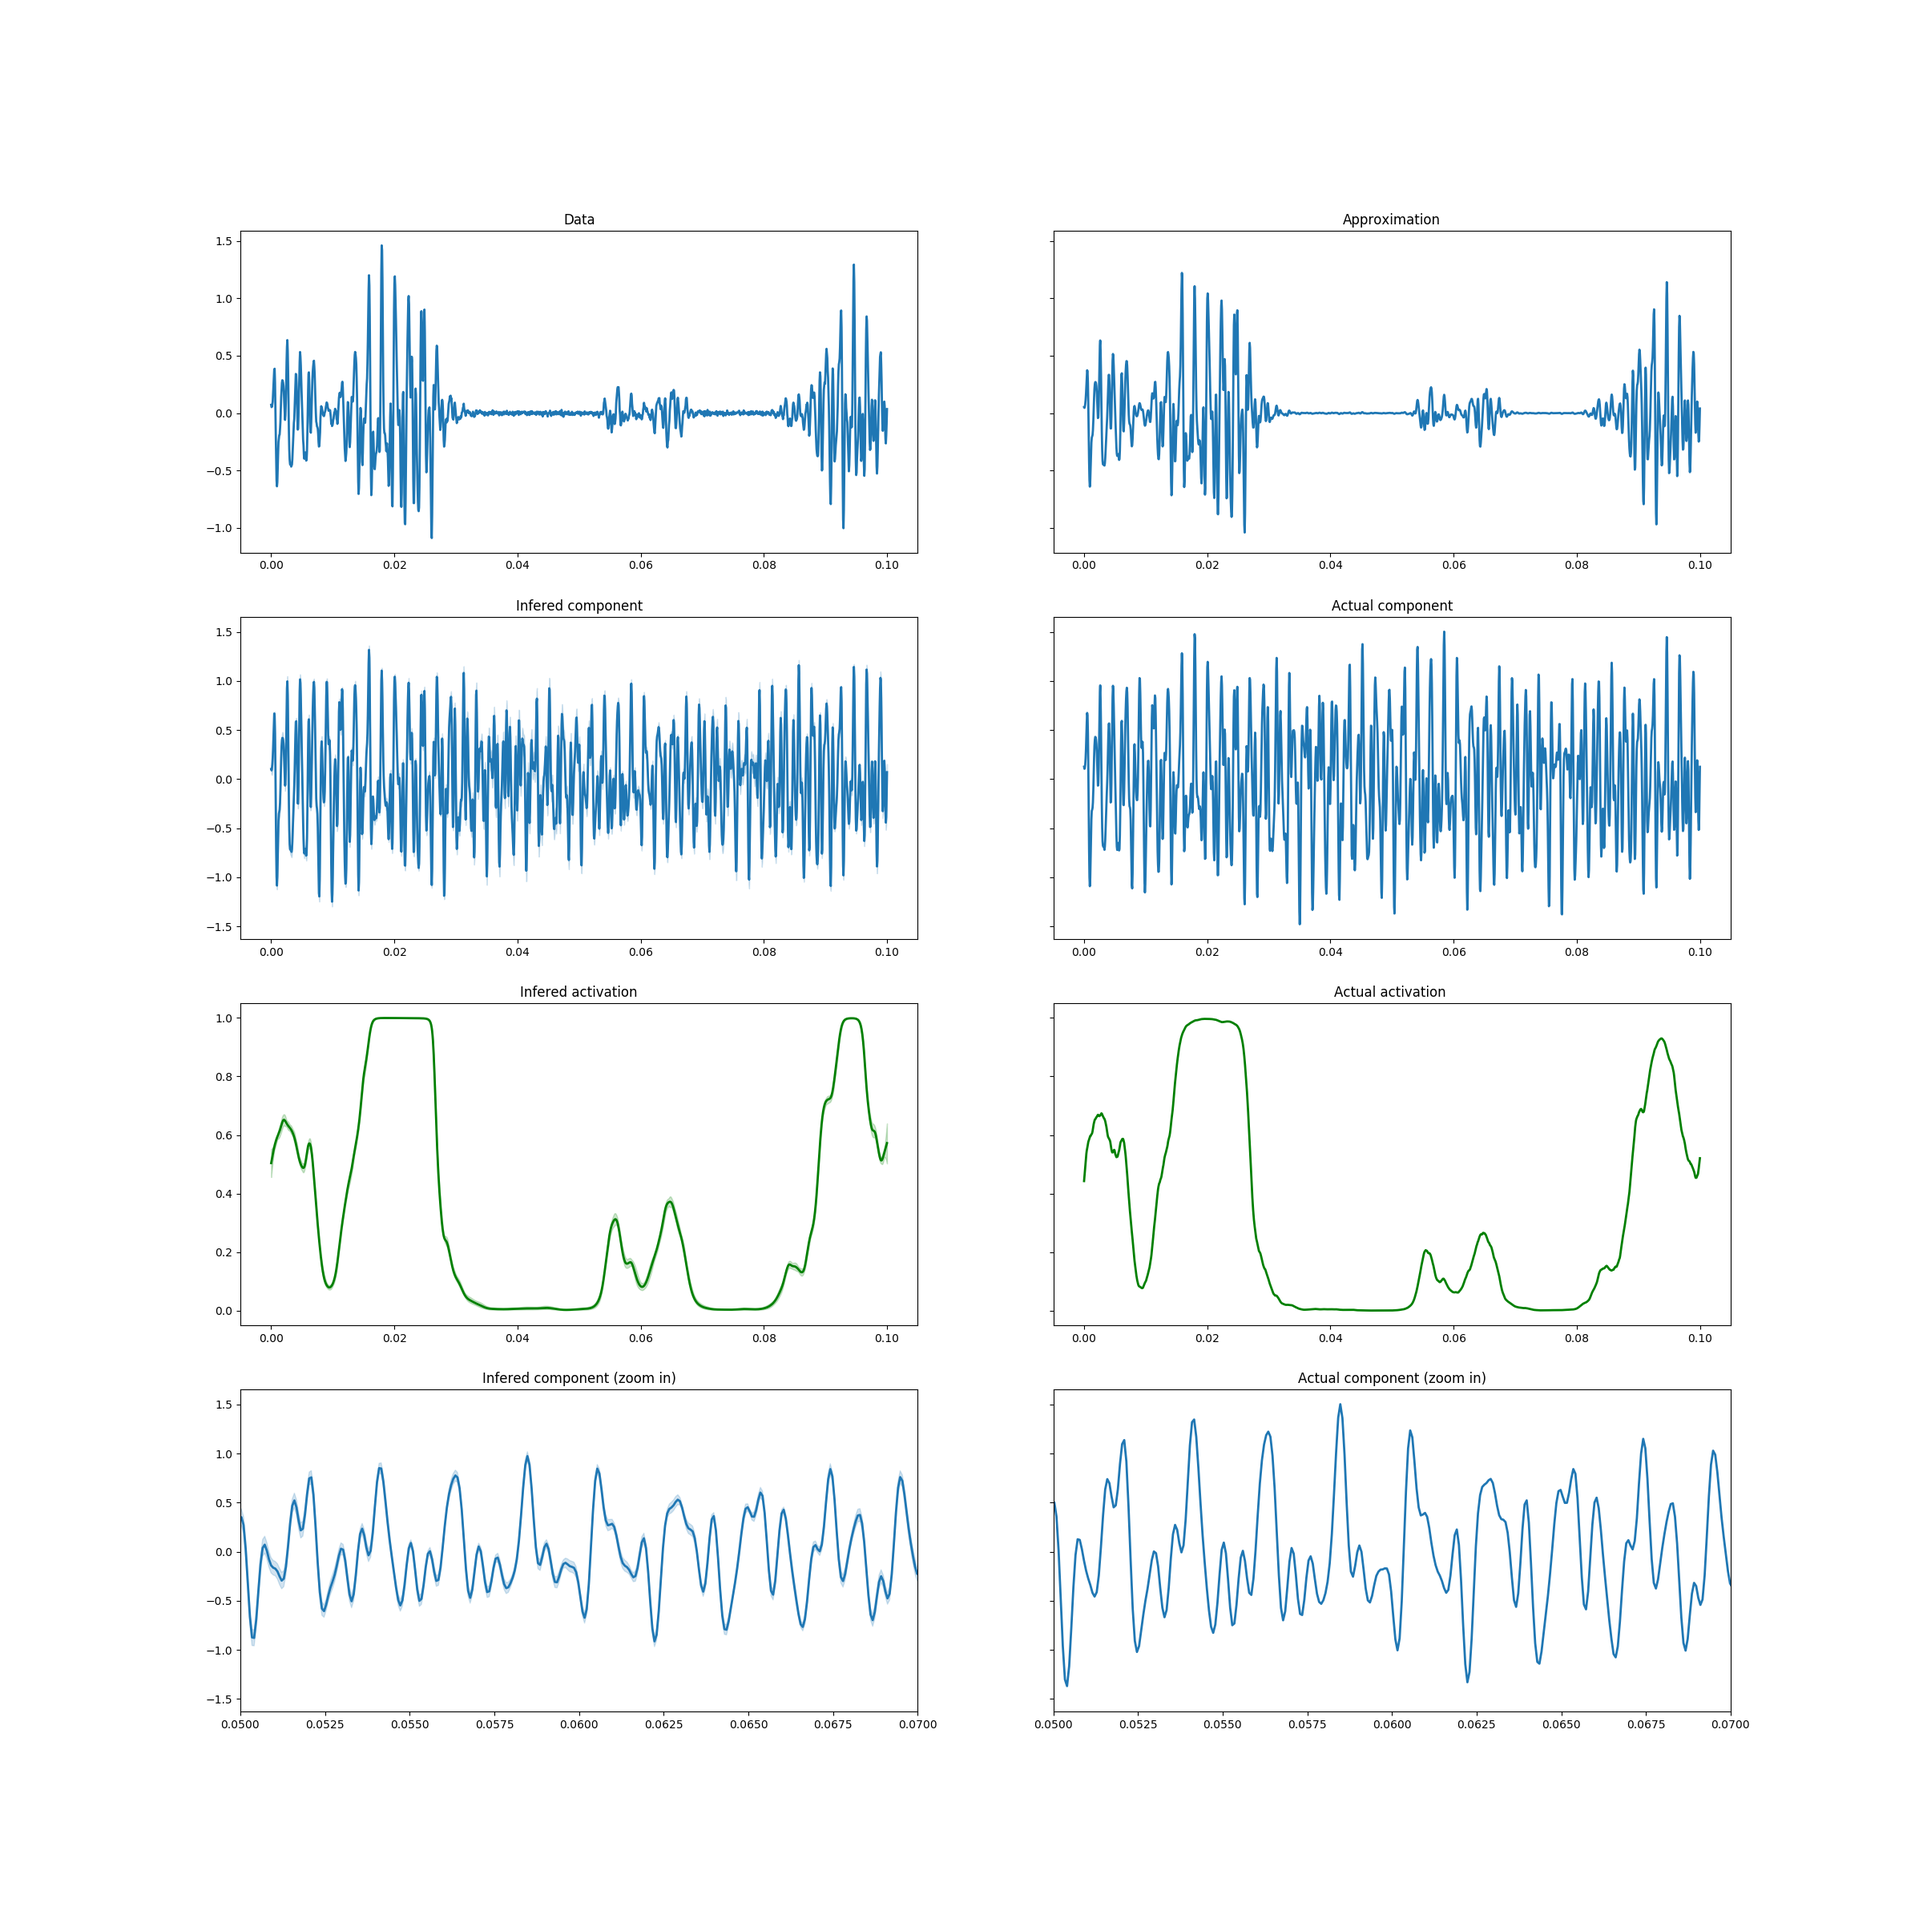
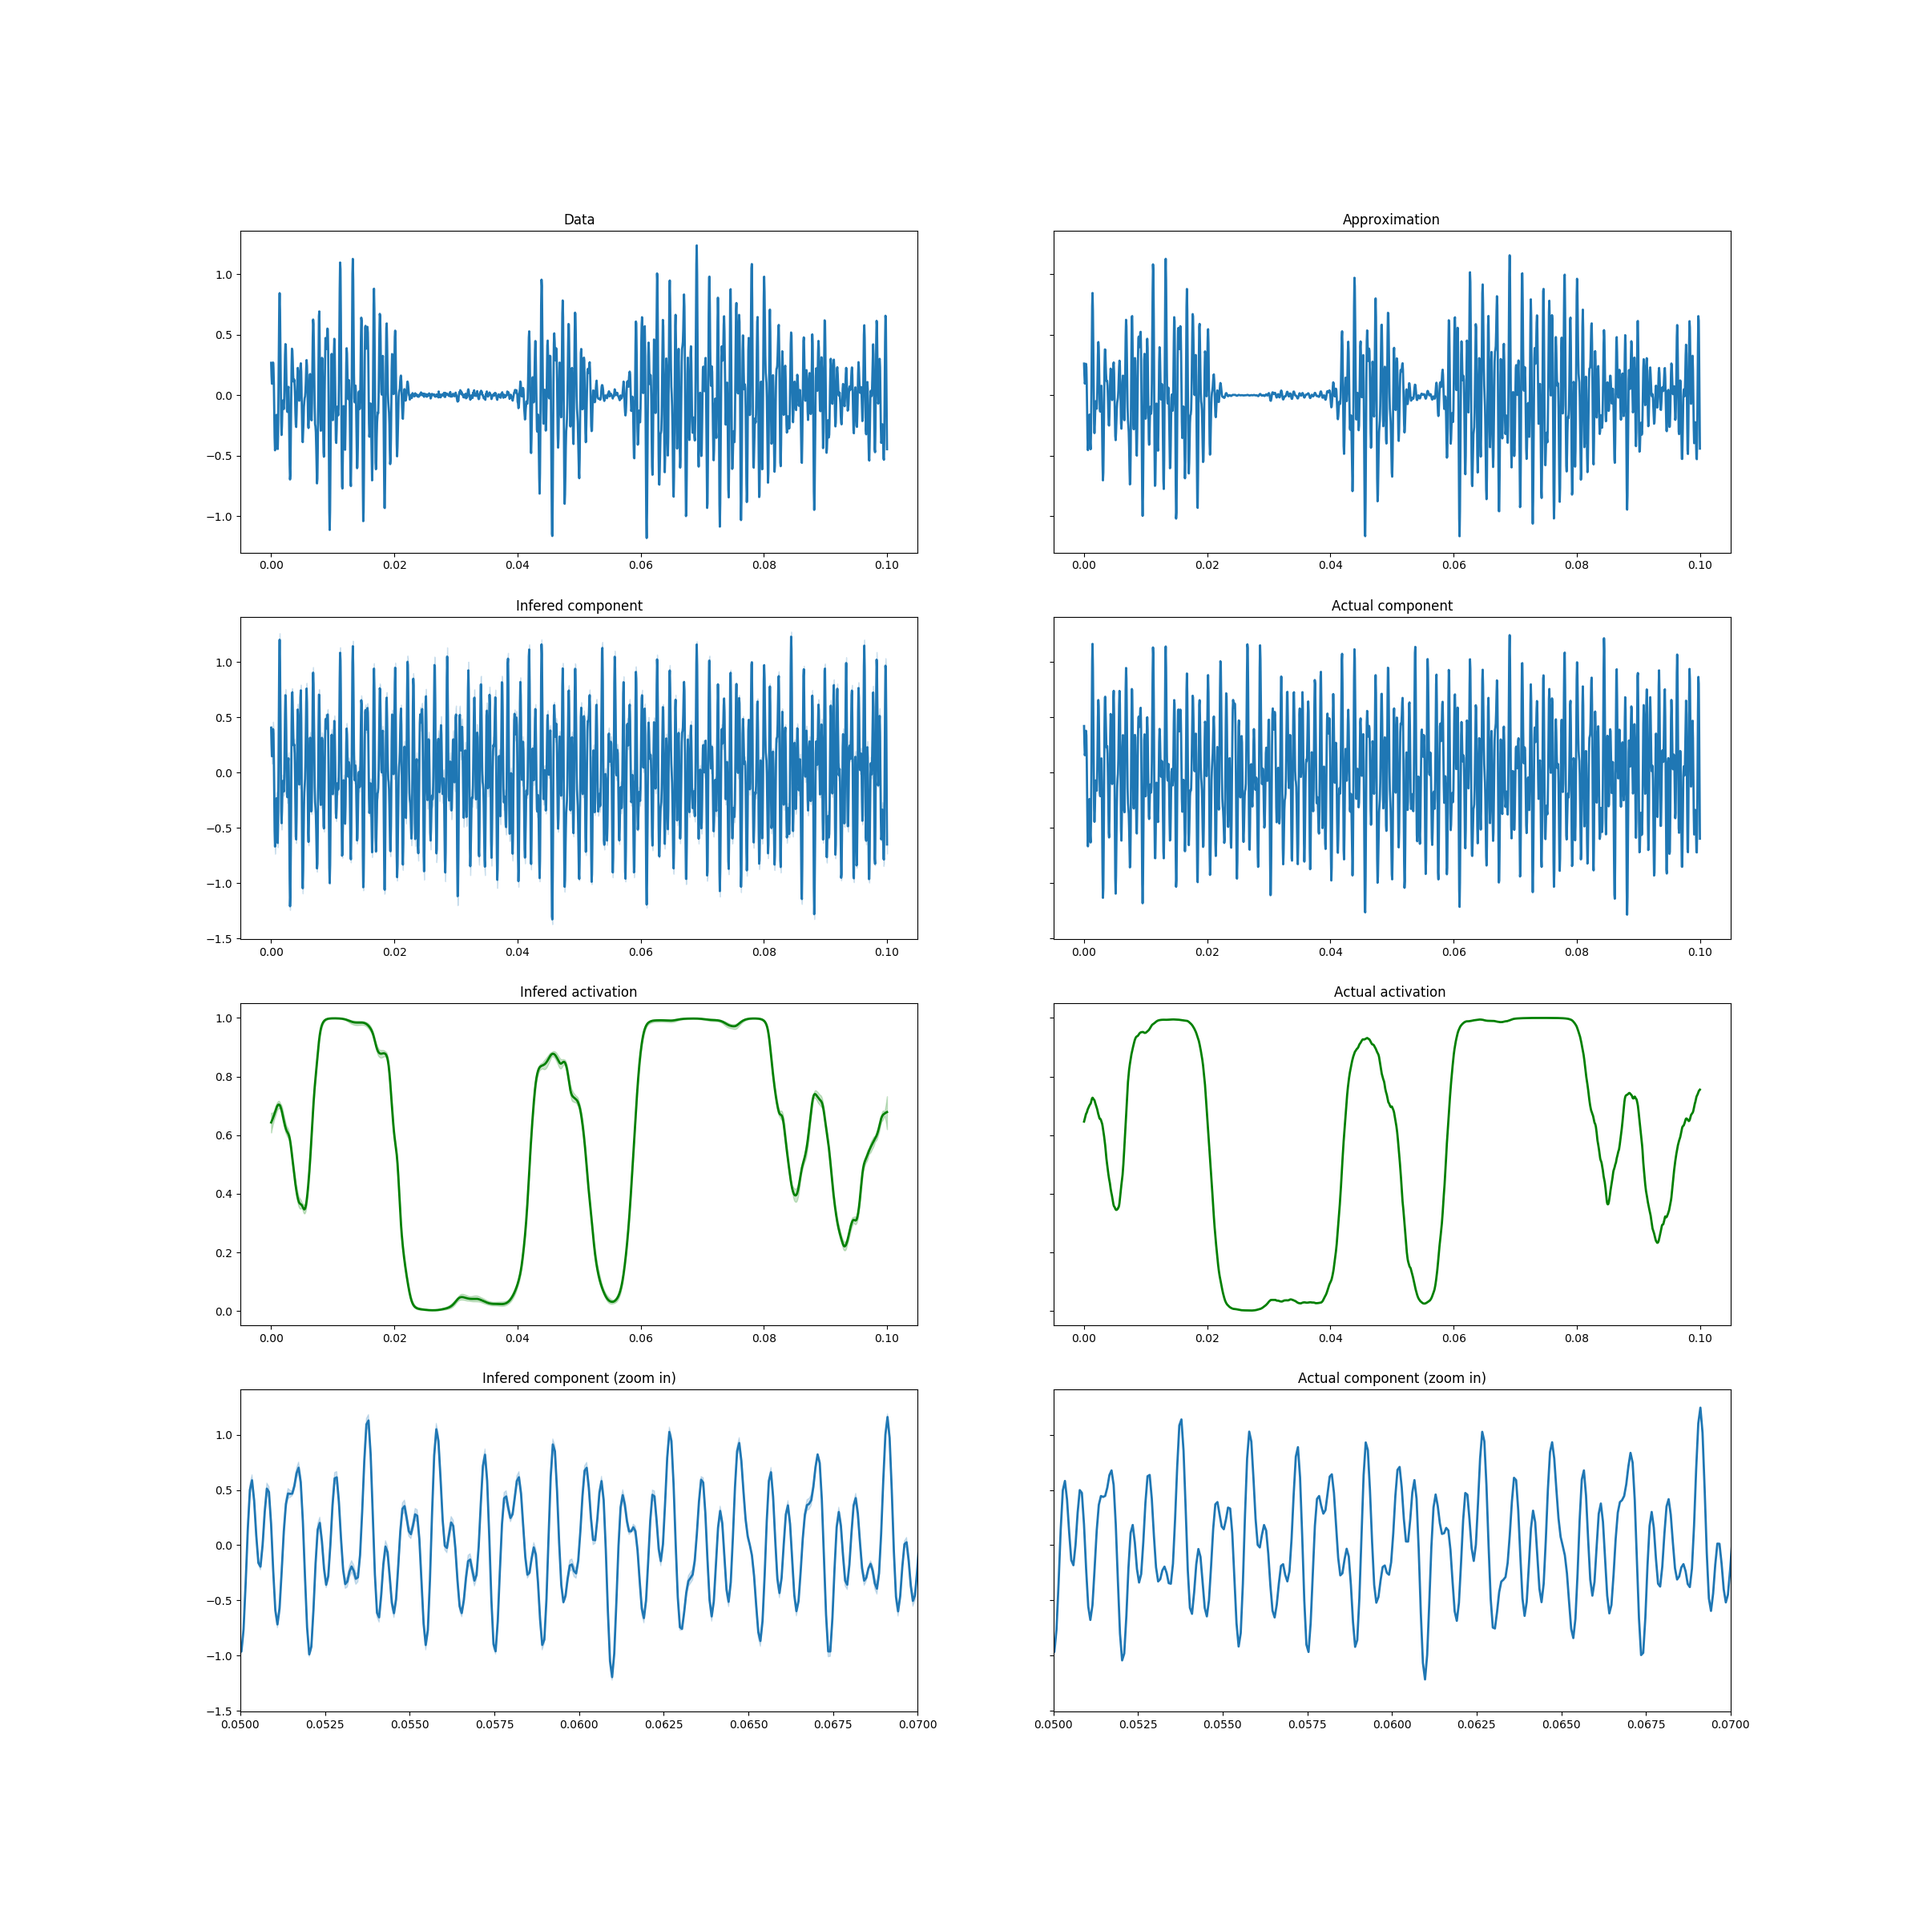
.

diff --git a/notebooks/demo_inharmonic_toy.py b/notebooks/demo_inharmonic_toy.py
@@ -15,7 +15,7 @@ from gpitch.amtgp import logistic
 reload(gpitch)
 
 
-np.random.seed(29) # initialize randomly params
+#np.random.seed(29) # initialize randomly params
 gpitch.amtgp.init_settings(visible_device = '0', interactive=True) #  configure gpu usage and plotting
 
 Nc = 4 #  set kernel params
@@ -64,36 +64,6 @@ m.optimize(disp=1, maxiter=400)
 m_f, v_f = m.predict_f(x)
 m_g, v_g = m.predict_g(x)
 
-plt.figure()
-plt.plot(x, m_f, 'C0')
-plt.plot(x, m_f + 2*np.sqrt(v_f), 'C0--')
-plt.plot(x, m_f - 2*np.sqrt(v_f), 'C0--')
-plt.twinx()
-plt.plot(x, logistic(m_g), 'g')
-plt.plot(x, logistic(m_g + 2*np.sqrt(v_g)), 'g--')
-plt.plot(x, logistic(m_g - 2*np.sqrt(v_g)), 'g--')
-plt.title('Infered functions')
-plt.savefig('../figures/demo_inharmonic_toy_opt.png')
-
-plt.figure()
-plt.title('actual functions')
-plt.plot(x, f, lw=2)
-plt.twinx()
-plt.plot(x, logistic(g), 'g', lw=2)
-plt.savefig('../figures/demo_inharmonic_toy_latent_functions.png')
-
-plt.figure()
-plt.title('g functions')
-plt.plot(x, m_g, 'C0', lw=2)
-plt.plot(x, g, 'g', lw=2)
-plt.legend(['prediction', 'actual functions'])
-plt.savefig('../figures/demo_inharmonic_toy_latent_functions_g.png')
-
-plt.figure()
-plt.plot(x, y, lw=2)
-plt.savefig('../figures/demo_inharmonic_toy_latent_data.png')
-
-
 nrows = 4
 ncols = 2
 plt.rcParams['figure.figsize'] = (24,24)  # set plot size
@@ -133,37 +103,6 @@ fig_array[3, 1].plot(x, f, color='C0', lw=2)
 fig_array[3, 1].set_xlim(zoom_limits)
 
 plt.savefig('../figures/demo_inharmonic_toy_all.png')
-
-
-fig, fig_array = plt.subplots(nrows, ncols, sharex=False, sharey=False)
-
-fig_array[0, 0].set_title('Data')
-fig_array[0, 0].plot(x, y, lw=2)
-fig_array[0, 1].set_title('Approximation')
-fig_array[0, 1].plot(x, logistic(m_g)*m_f , lw=2)
-
-fig_array[1, 0].set_title('Component')
-fig_array[1, 0].plot(x, m_f, color='C0', lw=2)
-fig_array[1, 0].fill_between(x[:, 0], m_f[:, 0] - 2*np.sqrt(v_f[:, 0]),
-                     m_f[:, 0] + 2*np.sqrt(v_f[:, 0]), color='C0', alpha=0.2)
-
-fig_array[1, 1].set_title('Component (zoom in)')
-fig_array[1, 1].plot(x, m_f, color='C0', lw=2)
-fig_array[1, 1].fill_between(x[:, 0], m_f[:, 0] - 2*np.sqrt(v_f[:, 0]),
-                     m_f[:, 0] + 2*np.sqrt(v_f[:, 0]), color='C0', alpha=0.2)
-fig_array[1, 1].set_xlim(zoom_limits)
-
-fig_array[2, 0].set_title('Activation')
-fig_array[2, 0].plot(x, logistic(m_g), color='g', lw=2)
-fig_array[2, 0].fill_between(x[:, 0], logistic(m_g[:, 0] - 2*np.sqrt(v_g[:, 0])),
-                     logistic(m_g[:, 0] + 2*np.sqrt(v_g[:, 0])), color='g', alpha=0.2)
-
-fig_array[2, 1].set_title('Activation (zoom in)')
-fig_array[2, 1].plot(x, logistic(m_g), color='g', lw=2)
-fig_array[2, 1].fill_between(x[:, 0], logistic(m_g[:, 0] - 2*np.sqrt(v_g[:, 0])),
-                     logistic(m_g[:, 0] + 2*np.sqrt(v_g[:, 0])), color='g', alpha=0.2)
-fig_array[2, 1].set_xlim(zoom_limits)
-plt.savefig('../figures/demo_inharmonic_toy_zoom.png')
 
 
 
